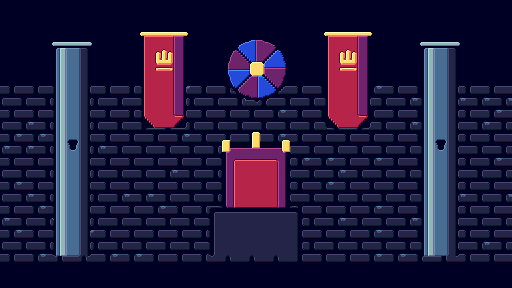
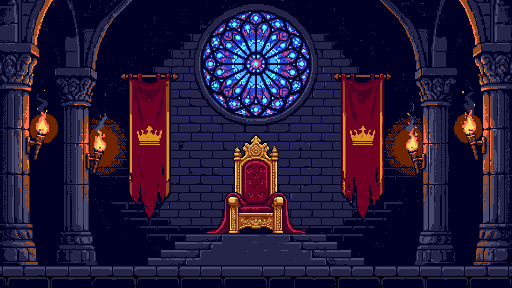
Fondos pintados con PixelLab
- Cielo con luna chica, cordillera con el castillo del rey a lo lejos,
  bosque, ruinas y murallas en la capa del medio, y un salón del trono
  nuevo con rosetón, estandartes y antorchas
- Las capas de atrás se oscurecen y se tiñen de azul noche; las ventanas
  siguen encendidas; todo en la paleta de 9 bits
- Las antorchas del salón chisporrotean sobre las pintadas
- tools/bg: piezas de PixelLab y el script que arma las capas; las capas
  viejas quedan en assets/level1/original

Claude-Session: https://claude.ai/code/session_01Ei4JdnCu4YgE3Dnq9TvGQ8

diff --git a/tools/bg/compose.py b/tools/bg/compose.py
@@ -1,0 +1,145 @@
+# Arma las capas del fondo con las piezas de PixelLab: cielo, montañas lejanas con el castillo del rey,
+# capa del medio (bosque, ruinas, murallas) y el salón del trono. Saca también vistas de prueba.
+import sys
+import numpy as np
+from PIL import Image
+
+import os
+HERE = os.path.dirname(os.path.abspath(__file__))
+D = os.path.join(HERE, 'piezas') + '/'
+OUT = sys.argv[1] if len(sys.argv) > 1 else os.path.join(HERE, '..', '..', 'assets', 'level1') + '/'
+os.makedirs(OUT, exist_ok=True)
+LV = 9  # niveles por canal del 9 bits
+GRID = np.array([0, 36, 73, 109, 146, 182, 219, 255])
+
+
+def q9(a):
+    """al color de 9 bits más cercano (como todo el arte del juego)"""
+    a = a.copy()
+    rgb = a[:, :, :3].astype(int)
+    idx = np.abs(rgb[:, :, :, None] - GRID[None, None, None, :]).argmin(-1)
+    a[:, :, :3] = GRID[idx]
+    return a
+
+
+def load(n):
+    return np.array(Image.open(D + n + '.png').convert('RGBA'))
+
+
+def fog(a, k, haze=(36, 36, 109), dark=1.0):
+    """lejanía: oscurece y tiñe hacia el azul de la noche, conserva la transparencia"""
+    a = a.copy()
+    o = a[:, :, :3].astype(int)
+    warm = (o[:, :, 0] >= 180) & (o[:, :, 1] >= 100) & (o[:, :, 2] <= 120)  # ventanas encendidas: siguen brillando
+    rgb = a[:, :, :3].astype(float) * dark
+    rgb = rgb * (1 - k) + np.array(haze, float) * k
+    a[:, :, :3] = np.clip(rgb, 0, 255).astype(np.uint8)
+    a[warm, :3] = o[warm]
+    return q9(a)
+
+
+def paste(dst, src, x, y):
+    """alpha binario (pixel art): copia donde la pieza tiene pintura"""
+    h, w = src.shape[:2]
+    x0, y0 = max(0, x), max(0, y)
+    x1, y1 = min(dst.shape[1], x + w), min(dst.shape[0], y + h)
+    if x1 <= x0 or y1 <= y0:
+        return
+    s = src[y0 - y:y1 - y, x0 - x:x1 - x]
+    m = s[:, :, 3] > 127
+    d = dst[y0:y1, x0:x1]
+    d[m] = s[m]
+    d[m, 3] = 255
+
+
+def bbox(a):
+    m = a[:, :, 3] > 0
+    ys, xs = np.where(m)
+    return xs.min(), ys.min(), xs.max() + 1, ys.max() + 1
+
+
+def crop(a, cut_bottom=0):
+    x0, y0, x1, y1 = bbox(a)
+    return a[y0:y1 - cut_bottom, x0:x1]
+
+
+# ---------------------------------------------------------------- cielo
+sky = load('sky')
+sky = q9(sky)
+
+# ---------------------------------------------------------------- montañas lejanas (1280 de ancho)
+mt = load('mountains')
+H0 = mt.shape[0]
+al = mt[:, :, 3] > 0
+top = np.array([np.argmax(al[:, x]) if al[:, x].any() else H0 for x in range(mt.shape[1])])
+best = None
+for x1 in range(0, 300):
+    for x2 in range(x1 + 488, mt.shape[1]):
+        if abs(top[x1] - top[x2]) > 1:
+            continue
+        sl = abs((top[x1 + 1] - top[x1]) - (top[x2] - top[x2 - 1]))
+        diff = np.abs(mt[:, x1, :3].astype(int) - mt[:, x2, :3].astype(int)).sum()
+        c = diff + sl * 400
+        if best is None or c < best[0]:
+            best = (c, x1, x2)
+_, X1, X2 = best
+print('costura montañas', best)
+wide = np.concatenate([mt[:, :X2], mt[:, X1:]], axis=1)[:, :1280]
+SHIFT = 22  # sube las montañas: los picos quedan entre y 100 y 165
+far = np.zeros((288, 1280, 4), np.uint8)
+far[:288 - 0] = wide[SHIFT:SHIFT + 288] if wide.shape[0] >= SHIFT + 288 else np.pad(wide[SHIFT:], ((0, 288 - (wide.shape[0] - SHIFT)), (0, 0), (0, 0)), mode='edge')
+far = fog(far, 0.42, dark=0.72)
+castle = crop(load('castle0'))
+castle = fog(castle, 0.36, dark=0.8)
+cw, ch = castle.shape[1], castle.shape[0]
+CX = X2 - cw // 2  # el castillo del rey tapa la costura
+paste(far, castle, CX, 236 - ch)
+# la base del cerro se funde con el pie de las montañas
+far[236:, CX:CX + cw][far[236:, CX:CX + cw, 3] > 0] = far[287, 0]
+
+# ---------------------------------------------------------------- capa del medio (2200 de ancho)
+mid = np.zeros((288, 2200, 4), np.uint8)
+BASE = 262
+TREE_FOG, RUIN_FOG, WALL_FOG = 0.38, 0.36, 0.34
+
+
+def put(name, x, fogk, cut=0, base=BASE, dark=0.8):
+    p = crop(load(name), cut)
+    p = fog(p, fogk, dark=dark)
+    paste(mid, p, x, base - p.shape[0])
+    return p.shape[1]
+
+
+# bosque (Pradera): de atrás hacia adelante, un poco encimados para que no se vean las uniones
+order = [('trees3', -12), ('trees1', 118), ('trees0', 250), ('trees2', 372), ('trees1', 500), ('trees3', 622)]
+for n, x in order:
+    put(n, x, TREE_FOG, cut=4)
+# loma continua adelante que tapa los cortes de las piezas
+xs = np.arange(2200)
+hill = 238 + 6 * np.sin(xs / 61.0) + 4 * np.sin(xs / 23.0 + 1.3)
+tree_end = 800
+for x in range(0, tree_end):
+    y0 = int(round(hill[x] + max(0, x - 700) ** 2 / 400.0))  # al final baja hasta perderse
+    if y0 >= 288:
+        continue
+    mid[y0:, x] = (0, 36, 36, 255)
+    mid[y0, x] = (0, 73, 73, 255)
+    if x % 7 < 2:
+        mid[y0 - 1, x] = (36, 109, 109, 255)  # pastito con luz de luna
+# ruinas (Ruinas)
+for n, x in [('ruins1', 730), ('ruins0', 870), ('ruins2', 1010), ('ruins3', 1150)]:
+    put(n, x, RUIN_FOG, cut=12)
+# murallas (Murallas)
+x = 1300
+for n in ['walls1', 'walls0', 'walls2', 'walls3', 'walls1', 'walls2', 'walls0']:
+    x += put(n, x, WALL_FOG) - 14
+mid = q9(mid)
+
+# ---------------------------------------------------------------- salón del trono
+th = q9(load('throne'))
+
+Image.fromarray(sky).save(OUT + 'sky.png')
+Image.fromarray(far).save(OUT + 'far.png')
+Image.fromarray(mid).save(OUT + 'mid.png')
+Image.fromarray(th).save(OUT + 'arena.png')
+print('listo', OUT)

diff --git a/README.md b/README.md
@@ -17,9 +17,18 @@ la pantalla de fin con tus **puntos** y el **récord** (se guarda en la compu).
 
 - Se ve como el original: el mundo es de 256×144, los sprites HD (Pip, slimes, el jefe) se dibujan con el doble de detalle y
   los textos usan la misma fuente de 5×7 del juego web.
-- **Música y sonidos del original**: la misma canción en sus ánimos (título, cartas, una por zona, entrada del jefe, jefe,
+- **Música del original**: la misma canción en sus ánimos (título, cartas, una por zona, entrada del jefe, jefe,
   furia, sin casco, victoria y derrota), que cambia a tiempo, cada medio compás; con un solo corazón suena apagada,
-  como debajo del agua. Los efectos son los mismos sonidos jsfxr, con un poco de variación de tono.
+  como debajo del agua.
+- **Efectos de sonido nuevos**, hechos para el estilo HD: cada uno tiene golpe, cuerpo y cola (la cuerda del arco que
+  vibra, la flecha que queda temblando al clavarse, el slime que revienta en gotas, la armadura que suena a metal, el
+  rugido con eco de castillo, las pisadas pesadas del caballero), con eco tipo SNES en lo mágico. Suenan tan fuerte
+  como los originales y con un poco de variación de tono. Los jsfxr del juego web quedaron en `assets/audio/sfx_original`.
+- **Fondos pintados con PixelLab**: cielo con luna, cordillera con el castillo del rey a lo lejos, y adelante el bosque
+  de la Pradera, las ruinas con arcos y enredaderas y las murallas con ventanas encendidas; el Salón del Trono tiene
+  rosetón, estandartes, trono y antorchas que chisporrotean. Las capas de atrás se oscurecen para que se vean lejos.
+- **Sin tirones**: los cuadros del jefe y de los esqueletos y la música se cargan en segundo plano desde el título, y
+  los shaders se compilan al arrancar (antes el primer dash y la entrada al castillo trababan un instante).
 - **Pip arquero** con los números del juego web: doble salto, coyote time, salto corto, **dash** intangible, flecha
   normal y **flechazo cargado** (3 de daño, atraviesa). Máximo cuatro flechas en el aire.
 - **Las flechas se clavan** donde pegan (las de Pip y las del esqueleto): en el piso, en las paredes, en los portones
@@ -59,7 +68,8 @@ la pantalla de fin con tus **puntos** y el **récord** (se guarda en la compu).
 ## Cómo está armado
 - `scenes/main.tscn`: la escena principal; el nivel se arma por código en `scripts/main.gd` (zonas, plataformas,
   portones y antorchas están en constantes arriba de todo, copiadas del original).
-- `assets/level1/`: el dibujo del Reino exportado del juego web (suelo y plataformas, cielo, montañas, cerros/ruinas/murallas, nubes y salón).
+- `assets/level1/`: el Reino. `level.png` (suelo y plataformas) y las nubes vienen del juego web; el cielo, las montañas,
+  la capa del medio y el salón los arma `tools/bg/compose.py` con piezas de PixelLab (las capas viejas, en `original/`).
 - `scripts/player.gd`: Pip arquero. Las constantes vienen de `CHARS.archer` y `SK` del `index.html` original.
 - `scripts/slime.gd`: slime verde y rojo (`updateGreen` y `updateRed` del original). Ya lee las cuatro filas de la hoja (verde, rojo, tóxico, hielo).
 - `scripts/pal.gd`: la paleta de 9 bits del original (`Pal.K`, `Pal.Y`...).
@@ -71,7 +81,8 @@ la pantalla de fin con tus **puntos** y el **récord** (se guarda en la compu).
   textos, temblor y empujón de cámara, hitstop, cámara lenta, críticos), `scripts/pix.gd` (dibujo a medio píxel y rampas
   de color para los efectos), `scripts/snd.gd` (autoload `Snd`:
   efectos y música), `scripts/ptext.gd` (la fuente del original), `scripts/hud.gd`, `scripts/background.gd`.
-- `assets/audio/`: los sonidos (`sfx/`, WAV) y la música (`music/`, OGG, una vuelta de la canción por ánimo), exportados del juego web.
+- `assets/audio/`: los sonidos (`sfx/`, WAV, sintetizados por `tools/sfx`) y la música (`music/`, OGG, una vuelta de la
+  canción por ánimo, exportada del juego web).
 - `assets/sprites/items/`: moneda, corazones, flecha y espada que caen, y los dibujos de las cartas (sacados del original).
 - `assets/sprites/boss/`: el Mega Caballero hecho con **PixelLab**, `helm/` con casco y `bare/` sin casco, cada uno con
   `idle/`, `walk/`, `charge/` (12 cuadros), `dazed/`, `death/`, `jump/` (14 cuadros del salto con espadazo), `roar/` y

diff --git a/tools/bg/LEEME.md b/tools/bg/LEEME.md
@@ -1,0 +1,14 @@
+# Fondos
+
+Las piezas de `piezas/` salieron de PixelLab (Create Image Pro, con la paleta de 9 bits del juego):
+cielo, cordillera, castillo del rey, bosque, ruinas, murallas y el salón del trono.
+`compose.py` arma con ellas las capas que usa el juego en `assets/level1`:
+
+- `sky.png` (fijo), `far.png` (parallax 0.25: montañas con el castillo del rey tapando la unión),
+  `mid.png` (parallax 0.5: bosque, ruinas y murallas, según la zona) y `arena.png` (salón del trono).
+- Las capas de atrás se oscurecen y se tiñen de azul noche para que se vean lejos; las ventanas
+  encendidas siguen brillando. Todo queda en la paleta de 9 bits como el resto del arte.
+
+    python3 compose.py            # escribe en ../../assets/level1
+
+Las capas anteriores quedaron en `assets/level1/original`.
